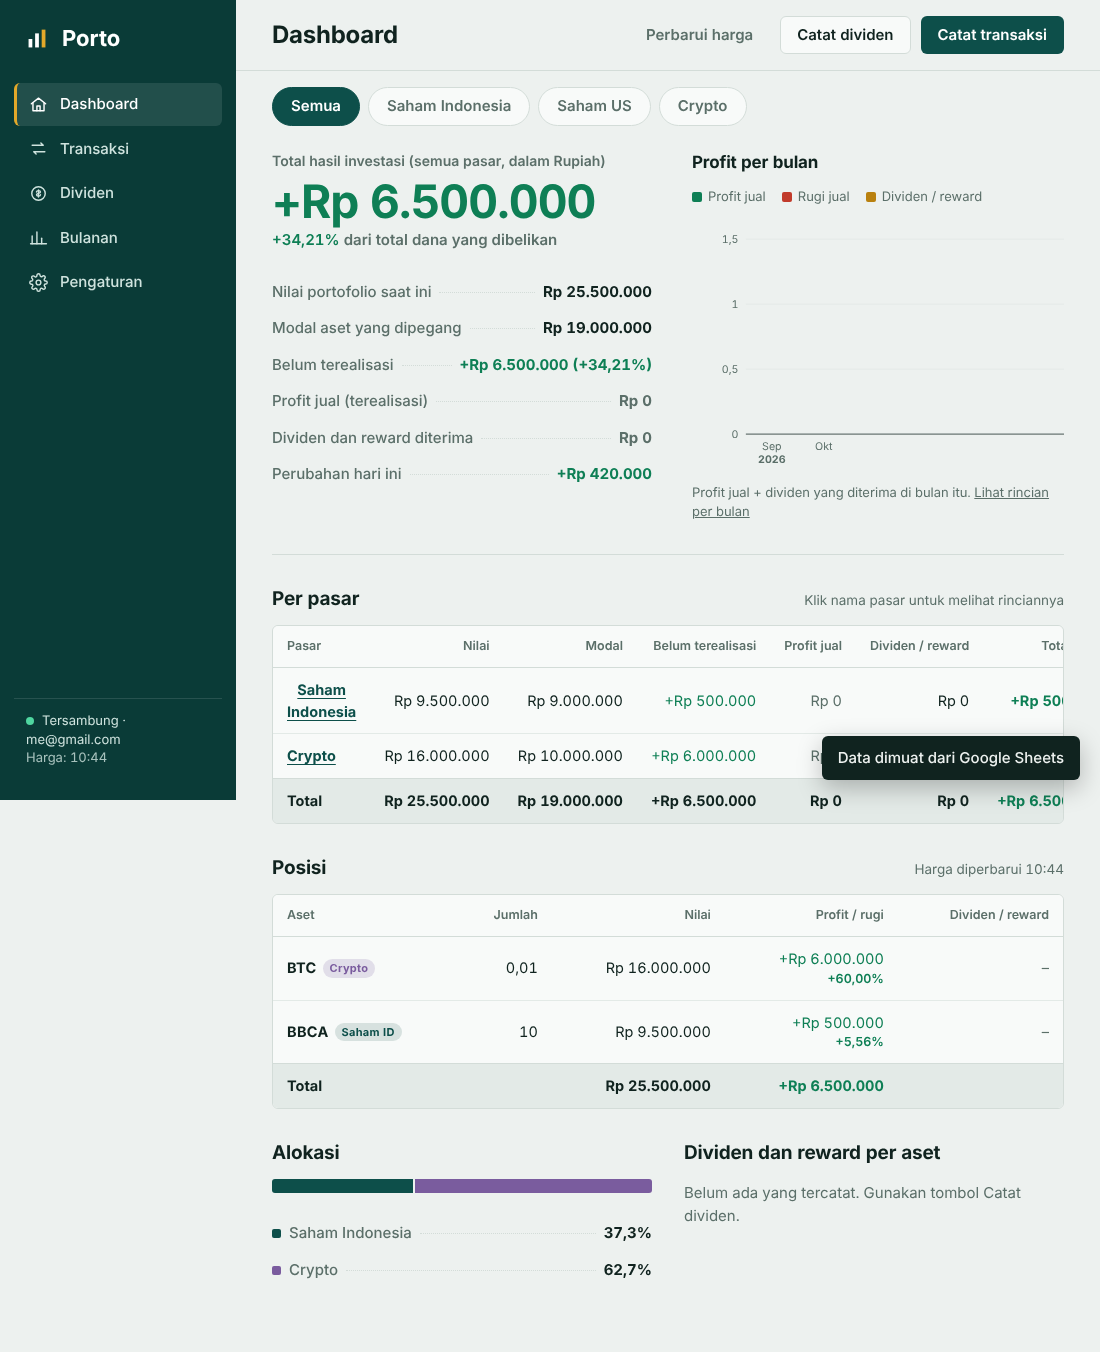
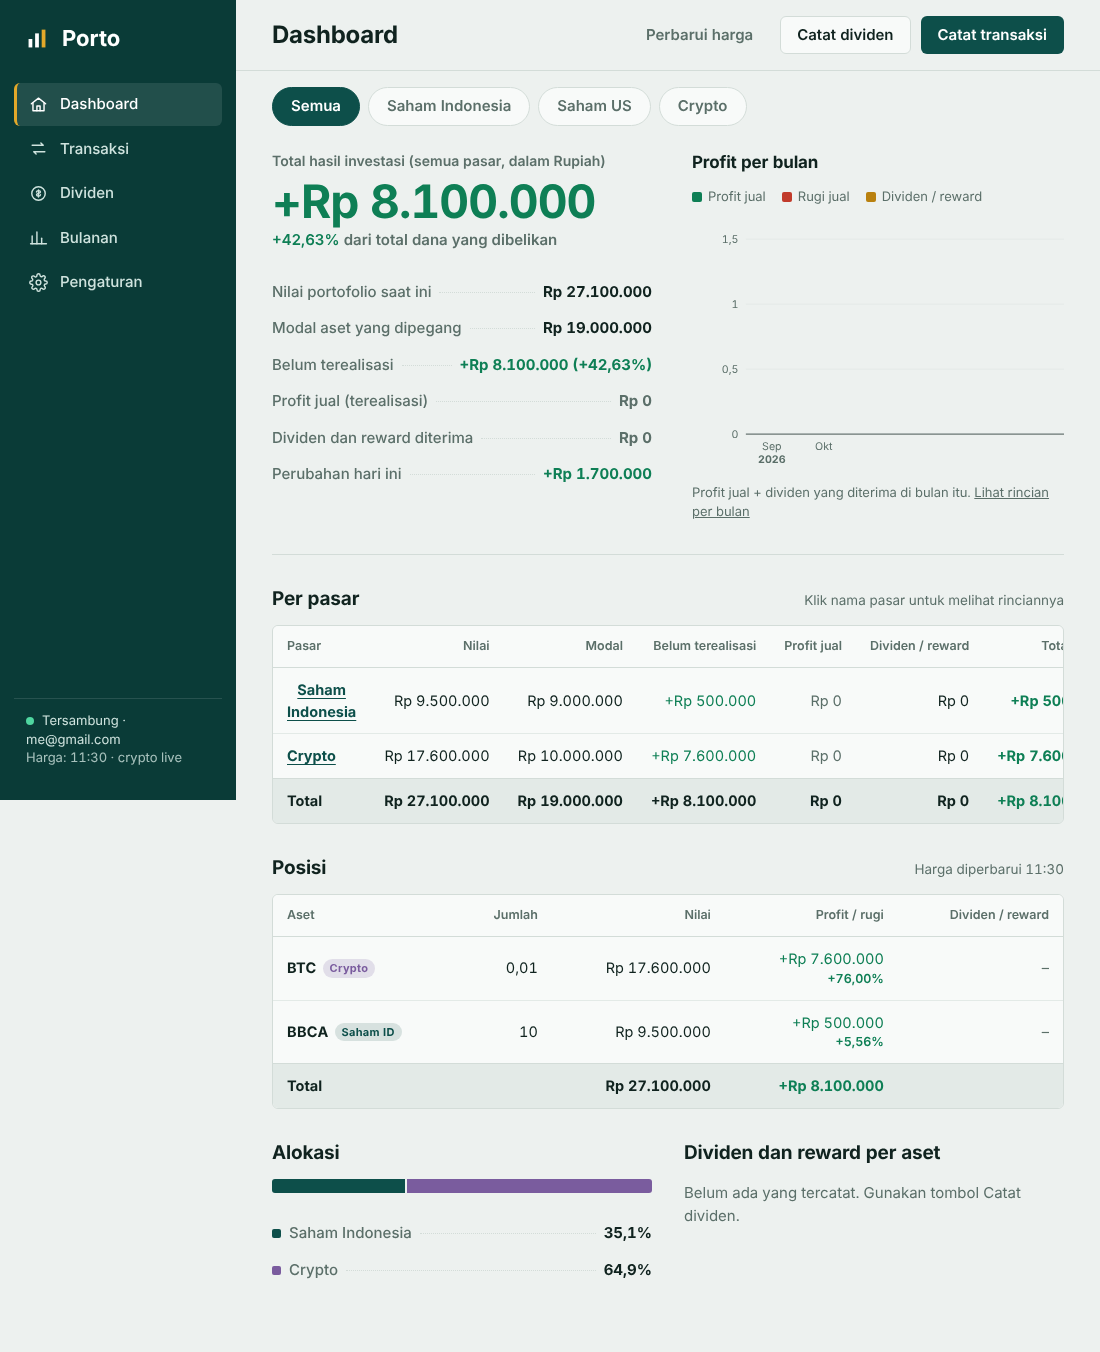
Gerbang login satu klik, config.js, harga crypto real-time via WebSocket Binance
Claude-Session: https://claude.ai/code/session_01VrqBuVeguc8uFod7KQk9MQ

diff --git a/js/app.js b/js/app.js
@@ -95,6 +95,7 @@
     route: 'dashboard',
     loadError: '',
     refreshing: false,
+    live: 'idle',
     f: { trx: { kode: '', jenis: '', tahun: '' }, div: { kode: '', tahun: '' } },
     focusId: ''
   };
@@ -174,6 +175,12 @@
 
   function banner(html, kind) {
     return '<div class="banner ' + (kind || '') + '" role="status"><div>' + html + '</div></div>';
+  }
+
+  function loginGate() {
+    return '<div class="panel empty login-gate"><h3>Masuk untuk membuka portofolio</h3>' +
+      '<p>Data Anda ada di Google Sheets. Masuk dengan akun Google yang punya akses ke spreadsheet.</p>' +
+      '<div class="row"><button class="btn primary" data-act="google-login" type="button">Masuk dengan Google</button></div></div>';
   }
 
   function emptyState(title, text, local) {
@@ -572,8 +579,8 @@
         : '<div><strong>' + (am ? 'Sedang memakai Apps Script.' : 'Belum tersambung.') + '</strong> Isi Client ID dan tautan spreadsheet, lalu masuk.</div>') + '</div>' +
       (location.protocol === 'file:' ? '<div class="banner err" style="margin-bottom:16px"><div>Login Google tidak berjalan dari file lokal. Buka lewat alamat GitHub Pages Anda.</div></div>' : '') +
       '<form id="form-google" class="form-grid" autocomplete="off">' +
-      '<div class="field wide"><label for="g-client">Client ID Google</label><input id="g-client" name="clientId" type="text" placeholder="123456-abc.apps.googleusercontent.com" value="' + esc(g.clientId) + '"><span class="hint">Dari Google Cloud Console (langkah di bawah). Client ID bukan rahasia.</span></div>' +
-      '<div class="field wide"><label for="g-sheet">Tautan atau ID spreadsheet</label><input id="g-sheet" name="sheet" type="text" placeholder="https://docs.google.com/spreadsheets/d/…" value="' + esc(g.sheetId) + '"></div>' +
+      '<div class="field wide"><label for="g-client">Client ID Google</label><input id="g-client" name="clientId" type="text" placeholder="123456-abc.apps.googleusercontent.com" value="' + esc(S.googleCfg().clientId) + '"><span class="hint">Dari Google Cloud Console (langkah di bawah). Client ID bukan rahasia.</span></div>' +
+      '<div class="field wide"><label for="g-sheet">Tautan atau ID spreadsheet</label><input id="g-sheet" name="sheet" type="text" placeholder="https://docs.google.com/spreadsheets/d/…" value="' + esc(S.googleCfg().sheetId) + '"></div>' +
       '<div class="wide" style="display:flex;gap:10px;flex-wrap:wrap"><button class="btn primary" type="submit">' + (gm ? 'Simpan dan masuk ulang' : 'Masuk dengan Google') + '</button>' +
       (gm ? '<button class="btn outline" type="button" data-act="reload">Muat ulang dari Sheet</button><button class="btn danger" type="button" data-act="google-logout">Putuskan</button>' : '') +
       '</div></form>' +
@@ -661,14 +668,14 @@
       var bad = !!state.loadError;
       el.className = 'sync ' + (bad ? 'err' : 'on');
       el.innerHTML = '<span class="dot"></span>' + (bad ? 'Gagal terhubung ke Google Sheets' : 'Tersambung' + (S.mode() === 'google' && S.email() ? ' · ' + esc(S.email()) : ' ke Google Sheets')) +
-        '<br><span style="opacity:.8">' + (S.prices.at ? 'Harga: ' + hhmm(S.prices.at) : 'Harga belum diperbarui') + '</span>';
+        '<br><span style="opacity:.8">' + (S.prices.at ? 'Harga: ' + hhmm(S.prices.at) : 'Harga belum diperbarui') + (state.live === 'on' ? ' · crypto live' : '') + '</span>';
     } else {
       el.className = 'sync';
-      el.innerHTML = '<span class="dot"></span>Mode lokal<br><span style="opacity:.8">Data hanya di browser ini. <a href="#/pengaturan">Hubungkan Sheet</a></span>';
+      el.innerHTML = '<span class="dot"></span>Mode lokal<br><span style="opacity:.8">Data hanya di browser ini. <a href="#/pengaturan">Hubungkan Sheet</a>' + (state.live === 'on' ? ' · crypto live' : '') + '</span>';
     }
     var btn = $('#btn-refresh');
     btn.disabled = state.refreshing;
-    btn.textContent = state.refreshing ? 'Memperbarui…' : 'Perbarui harga';
+    btn.textContent = state.refreshing ? 'Memperbarui…' : (S.needLogin() ? 'Masuk dengan Google' : 'Perbarui harga');
   }
 
   function render() {
@@ -677,7 +684,9 @@
     document.title = route.label + ' · Porto';
     renderNav();
     renderMarkets(route);
-    $('#view').innerHTML = VIEWS[route.id](compute());
+    var gate = S.needLogin() && route.id !== 'pengaturan' && !S.data.transaksi.length && !S.data.dividen.length;
+    $('#view').innerHTML = gate ? loginGate() : VIEWS[route.id](compute());
+    liveKeys();
     renderSync();
     var sel = selMarket();
     $('#btn-add-div').textContent = sel === 'CRYPTO' ? 'Catat reward' : 'Catat dividen';
@@ -974,6 +983,24 @@
     if (!S.needLogin()) return Promise.resolve();
     return S.signIn().then(function () { return S.reload(); }).then(function () { state.loadError = ''; });
   }
+
+  // ---------- crypto real-time (WebSocket Binance) ----------
+  var liveTimer = null;
+  var live = root_Live().create({
+    onTick: function (key, tick) {
+      S.setLive(key, tick);
+      if (liveTimer) return;
+      liveTimer = setTimeout(function () {
+        liveTimer = null;
+        S.savePrices();
+        var dlg = $('#dlg');
+        if (state.route === 'dashboard' && !(dlg && dlg.open)) render();
+      }, 1000);
+    },
+    onState: function (st) { state.live = st; renderSync(); }
+  });
+  function root_Live() { return window.Live; }
+  function liveKeys() { live.setKeys(openKeys()); }
 
   function refreshPrices(manualClick) {
     if (!S.isSheet()) {
@@ -1298,9 +1325,9 @@
   });
 
   setInterval(function () {
-    if (!document.hidden && S.isSheet() && !S.needLogin() && Date.now() - (S.prices.at || 0) > 5 * 60 * 1000) refreshPrices(false);
+    if (!document.hidden && S.isSheet() && !S.needLogin() && Date.now() - (S.prices.at || 0) > 55 * 1000) refreshPrices(false);
   }, 60 * 1000);
   document.addEventListener('visibilitychange', function () {
-    if (!document.hidden && S.isSheet() && !S.needLogin() && Date.now() - (S.prices.at || 0) > 5 * 60 * 1000) refreshPrices(false);
+    if (!document.hidden && S.isSheet() && !S.needLogin() && Date.now() - (S.prices.at || 0) > 55 * 1000) refreshPrices(false);
   });
 }());

diff --git a/js/store.js b/js/store.js
@@ -63,7 +63,10 @@
   function normalizeSettings(s) {
     var out = Object.assign(clone(DEFAULTS), s);
     out.google = Object.assign(clone(DEFAULTS.google), s.google || {});
-    if (out.source !== 'google' && out.source !== 'apps') out.source = (out.url && /^https:\/\//.test(out.url)) ? 'apps' : '';
+    if (['google', 'apps', 'local'].indexOf(out.source) < 0) {
+      var cfg = root.PORTO_CONFIG || {};
+      out.source = (out.url && /^https:\/\//.test(out.url)) ? 'apps' : (cfg.clientId && cfg.sheetId ? 'google' : '');
+    }
     var fee = clone(DEFAULTS.fee);
     MARKETS.forEach(function (m) {
       if (s.fee && s.fee[m]) fee[m] = Object.assign(fee[m], s.fee[m]);
@@ -103,8 +106,13 @@
   }
 
   /** 'google' (login Google + Sheets API), 'apps' (Apps Script) atau 'lokal'. */
+  /** Client ID dan sheet: dari Pengaturan, bila kosong dari js/config.js. */
+  function gcfg() {
+    var c = root.PORTO_CONFIG || {}, g = settings.google || {};
+    return { clientId: g.clientId || c.clientId || '', sheetId: g.sheetId || c.sheetId || '', email: g.email || '' };
+  }
   function mode() {
-    var g = settings.google;
+    var g = gcfg();
     if (settings.source === 'google' && g.clientId && g.sheetId) return 'google';
     if (settings.source === 'apps' && settings.url && /^https:\/\//.test(settings.url)) return 'apps';
     return 'lokal';
@@ -114,7 +122,7 @@
   // ---- Google: auth dan klien dibuat ulang bila Client ID atau Sheet berubah ----
   var gCache = { key: '', auth: null, client: null };
   function google() {
-    var g = settings.google;
+    var g = gcfg();
     var key = g.clientId + '|' + g.sheetId;
     if (gCache.key !== key) {
       if (gCache.auth) gCache.auth.signOut();
@@ -277,7 +285,7 @@
     disconnect: function () {
       Store.signOut();
       gCache = { key: '', auth: null, client: null };
-      Store.saveSettings({ source: '', url: '', token: '', google: { clientId: '', sheetId: '', email: '' } });
+      Store.saveSettings({ source: 'local', url: '', token: '', google: { clientId: '', sheetId: '', email: '' } });
       data = normalizeData(load(KEY_DATA, EMPTY));
     },
 
@@ -347,6 +355,16 @@
         return prices;
       });
     },
+
+    /** Harga real-time dari WebSocket (tidak menimpa waktu pembaruan REST). */
+    setLive: function (key, tick) {
+      prices.items = prices.items || {};
+      prices.items[key] = tick;
+    },
+    savePrices: function () { save(KEY_PRICES, prices); },
+    /** Kunci pasar dengan pengaturan Google/Apps Script tersedia atau tidak, untuk tampilan. */
+    googleReady: function () { var g = gcfg(); return !!(g.clientId && g.sheetId); },
+    googleCfg: gcfg,
 
     /** Harga mentah dalam mata uang kutipan sumbernya: live lebih dulu, lalu manual. */
     priceFor: function (key) {

diff --git a/js/live.js b/js/live.js
@@ -1,0 +1,58 @@
+/*
+ * Porto — harga crypto real-time dari WebSocket publik Binance (tanpa API key, tanpa login).
+ * Memperbarui Store.prices tiap ada transaksi di bursa; bila terputus, mencoba lagi otomatis.
+ */
+(function (root) {
+  'use strict';
+  var HOSTS = ['wss://data-stream.binance.vision', 'wss://stream.binance.com:9443'];
+
+  function create(opts) {
+    var WS = opts.WebSocket || root.WebSocket;
+    var onTick = opts.onTick, onState = opts.onState || function () {};
+    var ws = null, keys = [], hostIdx = 0, tries = 0, timer = null, closed = false, last = '';
+
+    function url() {
+      var s = keys.map(function (k) { return k.split(':')[1].toLowerCase() + 'usdt@miniTicker'; }).join('/');
+      return HOSTS[hostIdx % HOSTS.length] + '/stream?streams=' + s;
+    }
+    function open() {
+      if (closed || !keys.length || !WS) return;
+      var w;
+      try { w = new WS(url()); } catch (e) { return retry(); }
+      ws = w;
+      w.onopen = function () { tries = 0; onState('on'); };
+      w.onmessage = function (ev) {
+        try {
+          var d = JSON.parse(ev.data).data;
+          if (!d || !d.s || !/USDT$/.test(d.s)) return;
+          var p = Number(d.c), o = Number(d.o);
+          if (p > 0) onTick('CRYPTO:' + d.s.slice(0, -4), { price: p, prev: o > 0 ? o : null, time: d.E ? Math.round(d.E / 1000) : null });
+        } catch (e) { /* abaikan pesan rusak */ }
+      };
+      w.onclose = function () { if (ws === w) { ws = null; onState('off'); retry(); } };
+      w.onerror = function () { try { w.close(); } catch (e) { /* sudah tertutup */ } };
+    }
+    function retry() {
+      if (closed || timer) return;
+      tries++;
+      if (tries % 2 === 0) hostIdx++;
+      timer = setTimeout(function () { timer = null; open(); }, Math.min(30000, 1000 * Math.pow(2, Math.min(tries, 5))));
+    }
+    return {
+      /** Pasang daftar kunci "CRYPTO:BTC"; menyambung ulang hanya bila daftar berubah. */
+      setKeys: function (list) {
+        var next = list.filter(function (k) { return /^CRYPTO:[A-Z0-9]+$/.test(k); }).sort();
+        var sig = next.join(',');
+        if (sig === last) return;
+        last = sig; keys = next;
+        if (ws) { var w = ws; ws = null; try { w.close(); } catch (e) { /* abaikan */ } }
+        if (timer) { clearTimeout(timer); timer = null; }
+        if (!keys.length) { onState('idle'); return; }
+        open();
+      },
+      stop: function () { closed = true; if (timer) clearTimeout(timer); if (ws) { try { ws.close(); } catch (e) { /* abaikan */ } } }
+    };
+  }
+  var api = { create: create };
+  if (typeof module === 'object' && module.exports) module.exports = api; else root.Live = api;
+}(typeof self !== 'undefined' ? self : this));

diff --git a/tests/live.test.js b/tests/live.test.js
@@ -1,0 +1,19 @@
+const assert = require('assert');
+const Live = require('../js/live.js');
+const made = [];
+class FakeWS { constructor(u) { this.url = u; made.push(this); } close() { this.closed = true; this.onclose && this.onclose(); } }
+const ticks = [], states = [];
+const l = Live.create({ WebSocket: FakeWS, onTick: (k, t) => ticks.push([k, t]), onState: s => states.push(s) });
+l.setKeys(['ID:BBCA', 'CRYPTO:ETH', 'CRYPTO:BTC']);
+assert.strictEqual(made.length, 1);
+assert.ok(/streams=btcusdt@miniTicker\/ethusdt@miniTicker$/.test(made[0].url), made[0].url);
+made[0].onopen(); assert.deepStrictEqual(states, ['on']);
+made[0].onmessage({ data: JSON.stringify({ stream: 'x', data: { s: 'BTCUSDT', c: '100000.5', o: '98000', E: 1760000000000 } }) });
+made[0].onmessage({ data: 'bukan json' });
+made[0].onmessage({ data: JSON.stringify({ data: { s: 'BTCBUSD', c: '1', o: '1' } }) });
+assert.deepStrictEqual(ticks, [['CRYPTO:BTC', { price: 100000.5, prev: 98000, time: 1760000000 }]]);
+l.setKeys(['CRYPTO:BTC', 'CRYPTO:ETH']); assert.strictEqual(made.length, 1, 'daftar sama tidak menyambung ulang');
+l.setKeys(['CRYPTO:SOL']); assert.strictEqual(made.length, 2); assert.ok(made[0].closed);
+l.setKeys([]); assert.strictEqual(states[states.length - 1], 'idle');
+l.stop();
+console.log('Semua tes live lulus.');

diff --git a/js/config.js b/js/config.js
@@ -1,0 +1,9 @@
+/*
+ * Konfigurasi publik (bukan rahasia). Isi clientId dengan OAuth Client ID dari Google Cloud
+ * supaya tombol "Masuk dengan Google" langsung bisa diklik tanpa mengisi apa pun di Pengaturan.
+ * sheetId adalah ID spreadsheet Porto; akses tetap diatur lewat Bagikan di Drive.
+ */
+window.PORTO_CONFIG = {
+  clientId: '',
+  sheetId: '1mR66m3m2MVO-djtY32PQRITLlfTJ3wJwxqG7YARgfCo'
+};

diff --git a/index.html b/index.html
@@ -45,7 +45,9 @@
   <dialog id="dlg"></dialog>
   <div id="toasts" aria-live="polite"></div>
 
+  <script src="js/config.js"></script>
   <script src="js/calc.js"></script>
+  <script src="js/live.js"></script>
   <script src="js/gsheets.js"></script>
   <script src="js/store.js"></script>
   <script src="js/charts.js"></script>

diff --git a/README.md b/README.md
@@ -37,14 +37,14 @@ Aplikasi membaca dan menulis spreadsheet langsung dari browser Anda memakai logi
 2. **APIs & Services → Library**: aktifkan **Google Sheets API**.
 3. **OAuth consent screen**: tipe External, status Testing, tambahkan semua akun Gmail Anda sebagai **Test users**.
 4. **Credentials → OAuth client ID → Web application**. Di **Authorized JavaScript origins** isi `https://<username>.github.io` (tanpa garis miring).
-5. Buka aplikasi (alamat GitHub Pages) → **Pengaturan → Masuk dengan Google**, tempel Client ID dan tautan spreadsheet, klik masuk.
+5. Isi `clientId` di `js/config.js` (Client ID bukan rahasia) lalu commit. Setelah itu siapa pun yang membuka situs cukup klik **Masuk dengan Google**. Alternatif tanpa edit file: **Pengaturan → Masuk dengan Google**, tempel Client ID dan tautan spreadsheet.
 
 Catatan: Google menampilkan peringatan "aplikasi belum diverifikasi" untuk aplikasi pribadi, pilih Lanjutkan. Izin yang diminta (`spreadsheets`) berlaku untuk semua spreadsheet di akun yang login, walau aplikasi hanya membuka satu. Token berlaku sekitar satu jam; setelah itu klik **Masuk dengan Google** lagi. Tab data dibuat otomatis, dengan nama yang sama seperti versi Apps Script.
 
 ### Harga terbaru
 
-- **Crypto**: API publik Binance (`data-api.binance.vision`, tanpa API key). Harga terakhir dan perubahan 24 jam terhadap pasangan USDT. Bila Binance tidak terjangkau dari jaringan Anda, otomatis memakai GOOGLEFINANCE.
-- **Saham Indonesia dan US, serta kurs USD ke Rupiah**: rumus `GOOGLEFINANCE` di tab **Harga** pada spreadsheet Anda (dibuat dan diisi otomatis). Google menyebut data bursa Indonesia tertunda sekitar 10 menit.
+- **Crypto real-time**: WebSocket publik Binance (`data-stream.binance.vision`), harga bergerak langsung di Dashboard dan tidak butuh login. Bila terputus, menyambung ulang otomatis. Untuk pembaruan berkala dipakai API publik Binance (`data-api.binance.vision`, tanpa API key). Harga terakhir dan perubahan 24 jam terhadap pasangan USDT. Bila Binance tidak terjangkau dari jaringan Anda, otomatis memakai GOOGLEFINANCE.
+- **Saham Indonesia dan US, serta kurs USD ke Rupiah**: diperbarui tiap sekitar 1 menit saat halaman terbuka dan sudah login, lewat rumus `GOOGLEFINANCE` di tab **Harga** pada spreadsheet Anda (dibuat dan diisi otomatis). Google menyebut data bursa Indonesia tertunda sekitar 10 menit.
 - **Stockbit**: tidak dipakai karena tidak ada API publik resmi untuk pengembang.
 
 ## Apps Script (opsional, untuk catat lewat chat)
@@ -106,6 +106,7 @@ Tanpa proses build. Logika hitung ada di `js/calc.js`, backend di `apps-script/C
 node tests/calc.test.js
 node tests/appsscript.test.js
 node tests/gsheets.test.js
+node tests/live.test.js
 ```
 
 ## Catatan
